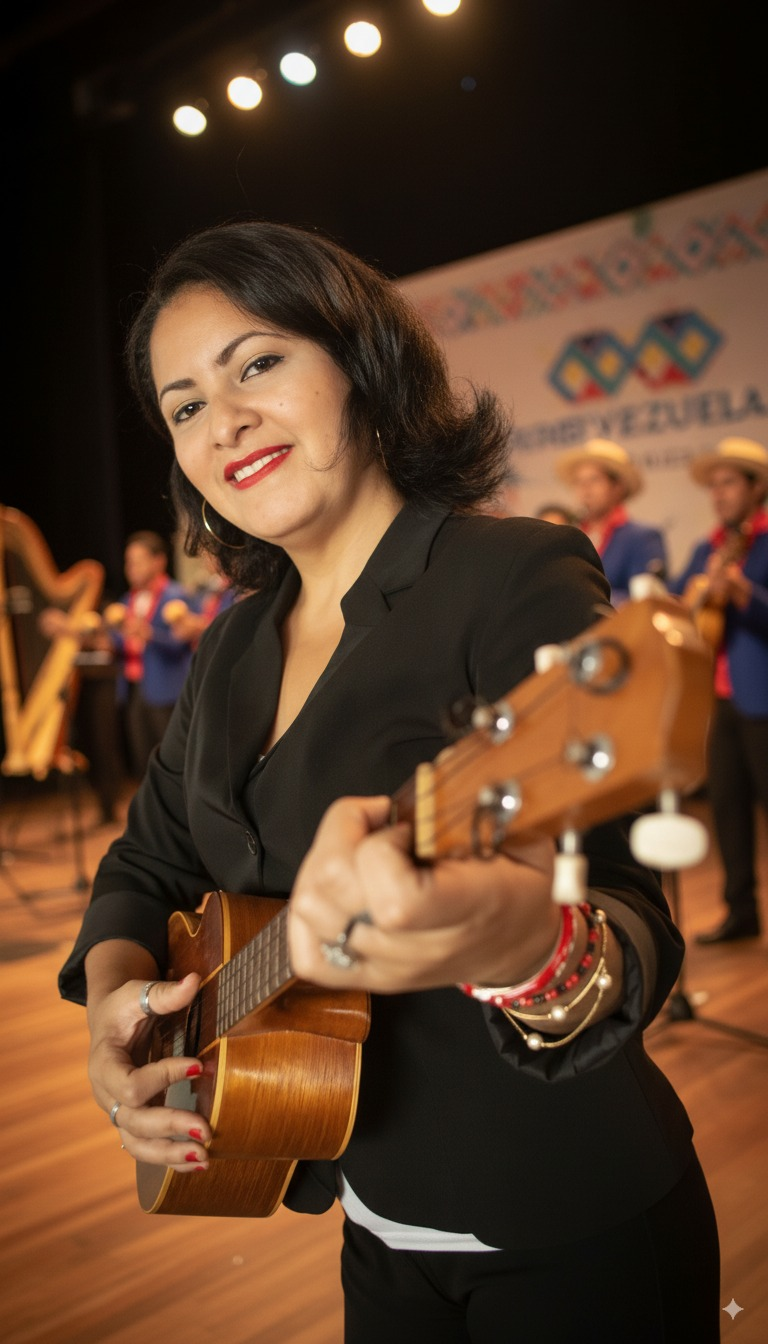
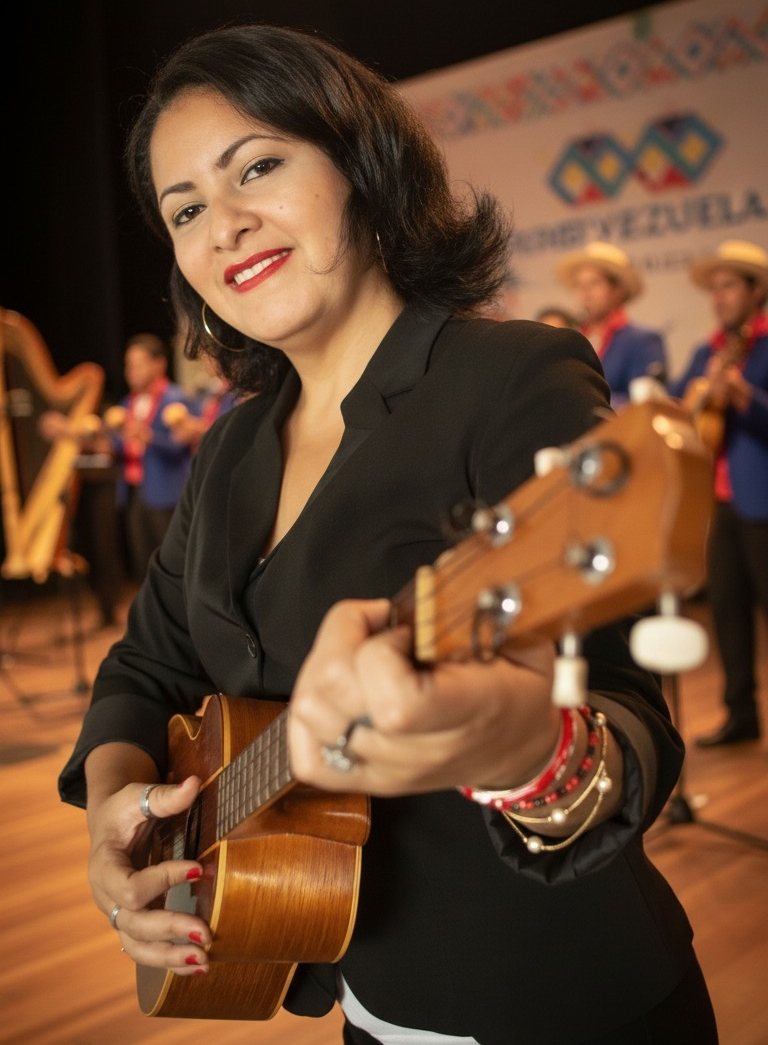
12 commit

diff --git a/src/pages/AboutPage.tsx b/src/pages/AboutPage.tsx
@@ -30,7 +30,7 @@ function AboutPage() {
             <img
               src="/images/acerca_de_mi.jpeg"
               alt="Music Teacher Portrait"
-              className="rounded-lg shadow-lg w-full h-96 object-cover"
+              className="rounded-lg shadow-lg w-full object-contain mx-auto"
             />
             <div className="absolute -bottom-4 -right-4 bg-amber-600 text-white p-4 rounded-lg shadow-lg">
               <div className="text-center">
